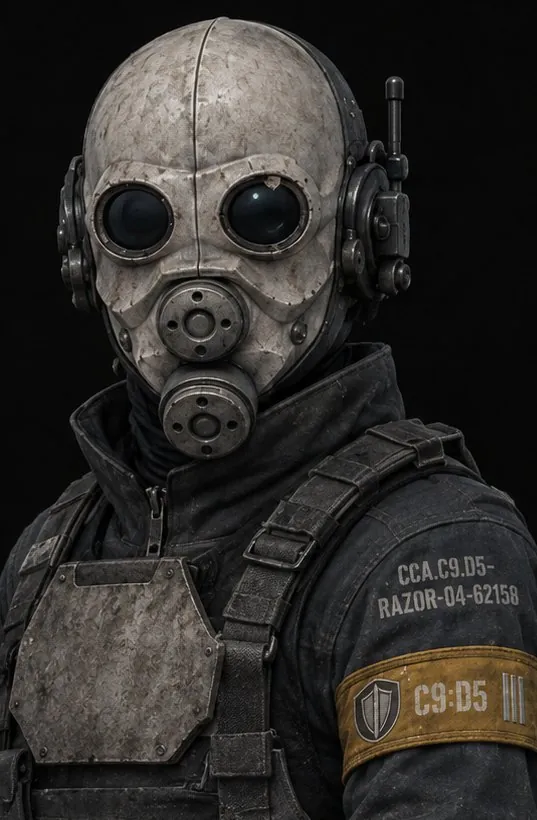
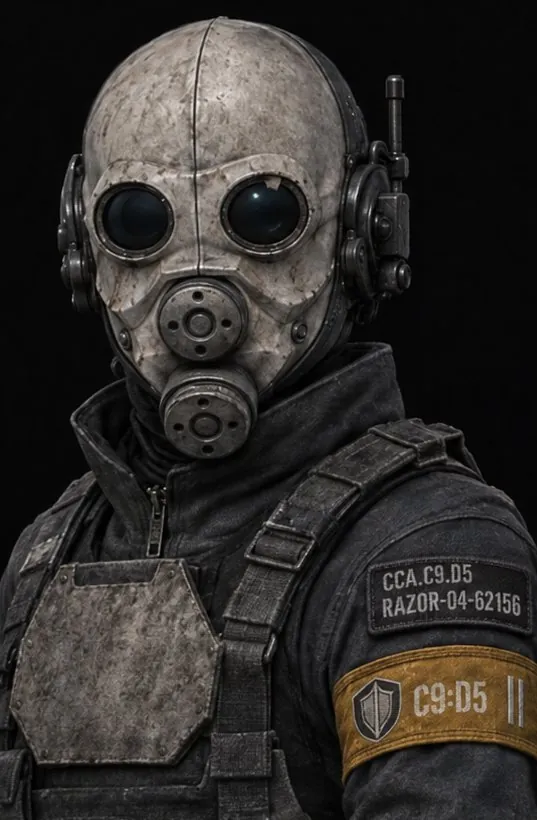
Art: corrected enlisted unit portraits (two bars, designation patch); VEIL excluded; GRID OfC kept
Claude-Session: https://claude.ai/code/session_01FPxW8sjExYByq8Hjg1f5Jc

diff --git a/js/content/career.js b/js/content/career.js
@@ -106,7 +106,7 @@
     const dc = G.DIV_CAST && G.DIV_CAST[div];
     if (dc) {
       out.push({ name: G.PEOPLE[dc.chief.key].name, rank: 'OfC', note: 'your officer', desig: dc.chief.cap.split(' — ')[0], key: dc.chief.key });
-      const PD = { HELIX: ['5', '36812'], RAZOR: ['5', '62158'], SPEAR: ['5', '74430'], VECTOR: ['1', '55841'], GRID: ['1', '70519'] }[div] || ['5', '10000'];
+      const PD = { HELIX: ['5', '36812'], RAZOR: ['5', '62156'], SPEAR: ['5', '71430'], VECTOR: ['1', '55841'], GRID: ['1', '70519'] }[div] || ['5', '10000'];
       out.push({ name: G.PEOPLE[dc.partner.key].name, rank: dc.partner.rank, note: 'your partner', desig: D(PD[0], dc.partner.rank, PD[1]), key: dc.partner.key });
     }
     (s.squad && s.squad.members ? s.squad.members : []).forEach((m) => {

diff --git a/sw.js b/sw.js
@@ -1,6 +1,6 @@
 /* Service worker: makes the game installable and playable offline.
    VERSION is a hash of the cached files: run python3 tools/bump-sw.py after changing code (the tests check it). */
-const VERSION = 'c9-dc3d68a31a';
+const VERSION = 'c9-bdb924ae21';
 const MEDIA = 'c9-media-1'; /* images and fonts: kept across code updates */
 const SHELL = [
   './',

diff --git a/docs/style-sheet.md b/docs/style-sheet.md
@@ -1869,7 +1869,7 @@ Generiska porträtt för patrullgruppen och andra namnlösa enheter. Tre porträ
 | E24 Utdelningsdagen | `env/e24-ration-day.jpg` | Plaza 5 full, Overwatch på taket, Shrike med släckt ljus | env/e10-ration, citizen-base, uniform-union, ota-soldier, airwatch-shrike |
 | E25 Lastkajen i D2 | `env/e25-warehouse.jpg` | lagret öppnat, säckar längs kanalen, λ på dörrkarmen | citizen-base, env/e12-railyard, env/e01-city |
 
-**Klara (2026-11-13):** P1–P5 inlagda, 14 porträtt + miniatyrer (`portraits/unit-<div>-04|ofc`). VEIL-porträttet i P5 är **bortklippt** och används inte; VEIL får en egen separat prompt. **Kvar att rätta:** manskapsarmbanden i P1 (HELIX, JURY), P2 (alla tre) och P5 (GRID 04) visar TRE streck i stället för två; bara UNION 04 är rätt.
+**Klara (2026-11-13):** P1–P5 inlagda, 14 porträtt + miniatyrer (`portraits/unit-<div>-04|ofc`). VEIL-porträttet i P5 är **bortklippt** och används inte; VEIL får en egen separat prompt. **Rättat (2026-11-14):** P1, P2 och GRID 04 har nu två streck och designationspatch. GRID OfC behölls från första versionen (redigeringen gav den två streck efter stjärnan). Små ID-avvikelser i bilderna: JURY-04-50933, RAZOR-04-62156, SPEAR-04-71430, GRID-04-70S19.
 
 Full prompt-text finns i chatthistoriken (2026-11-13).
 
